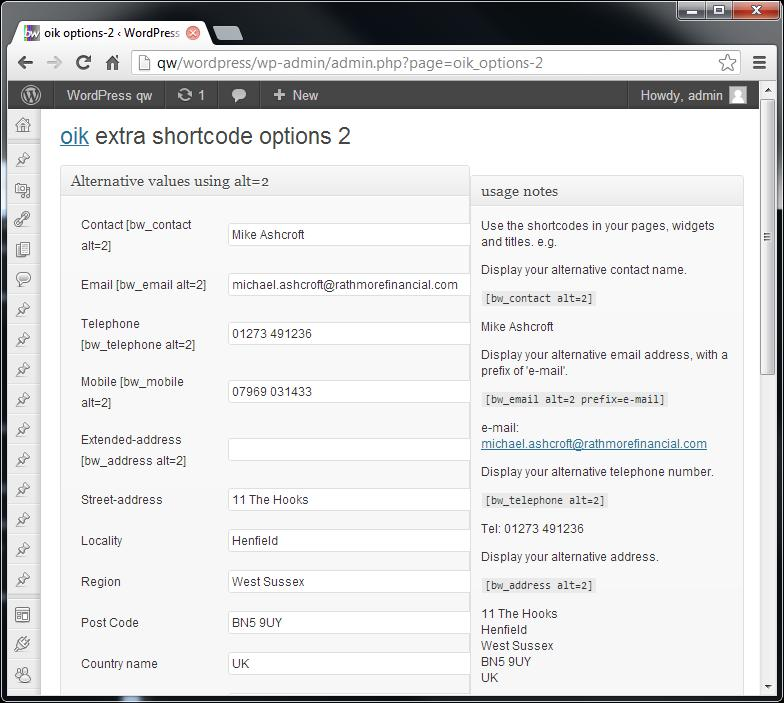
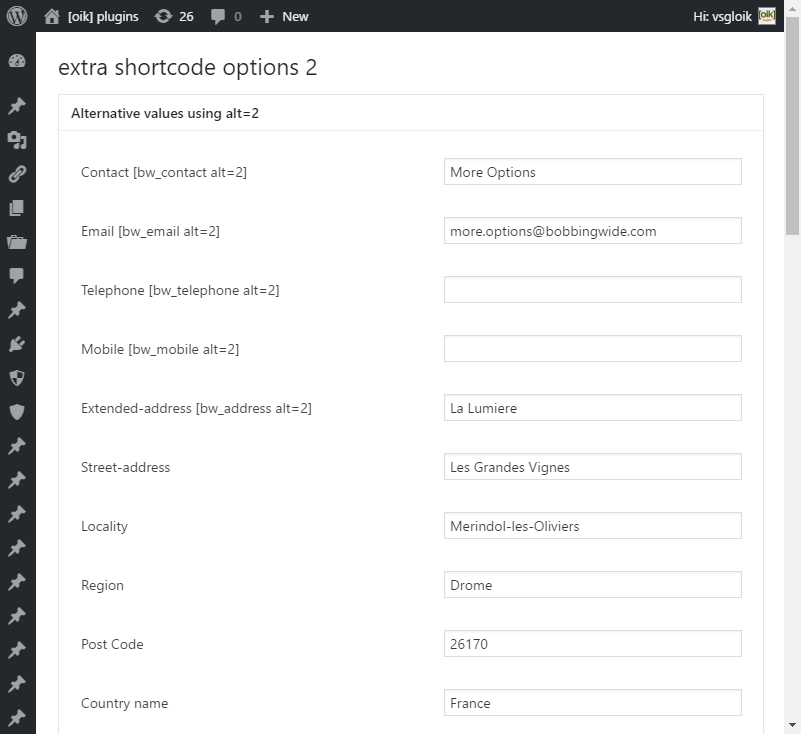
Updated screenshot(s)

diff --git a/README.md b/README.md
@@ -27,7 +27,8 @@ Yes - please use the standard WordPress forum - http://wordpress.org/tags/oik?fo
 Yes - see above
 
 ## Screenshots 
-1. oik extra shortcode options 2
+1. extra shortcode options 2 - top section
+2. extra shortcode options 2 - middle section
 
 ## Upgrade Notice 
 # 1.0.0 
